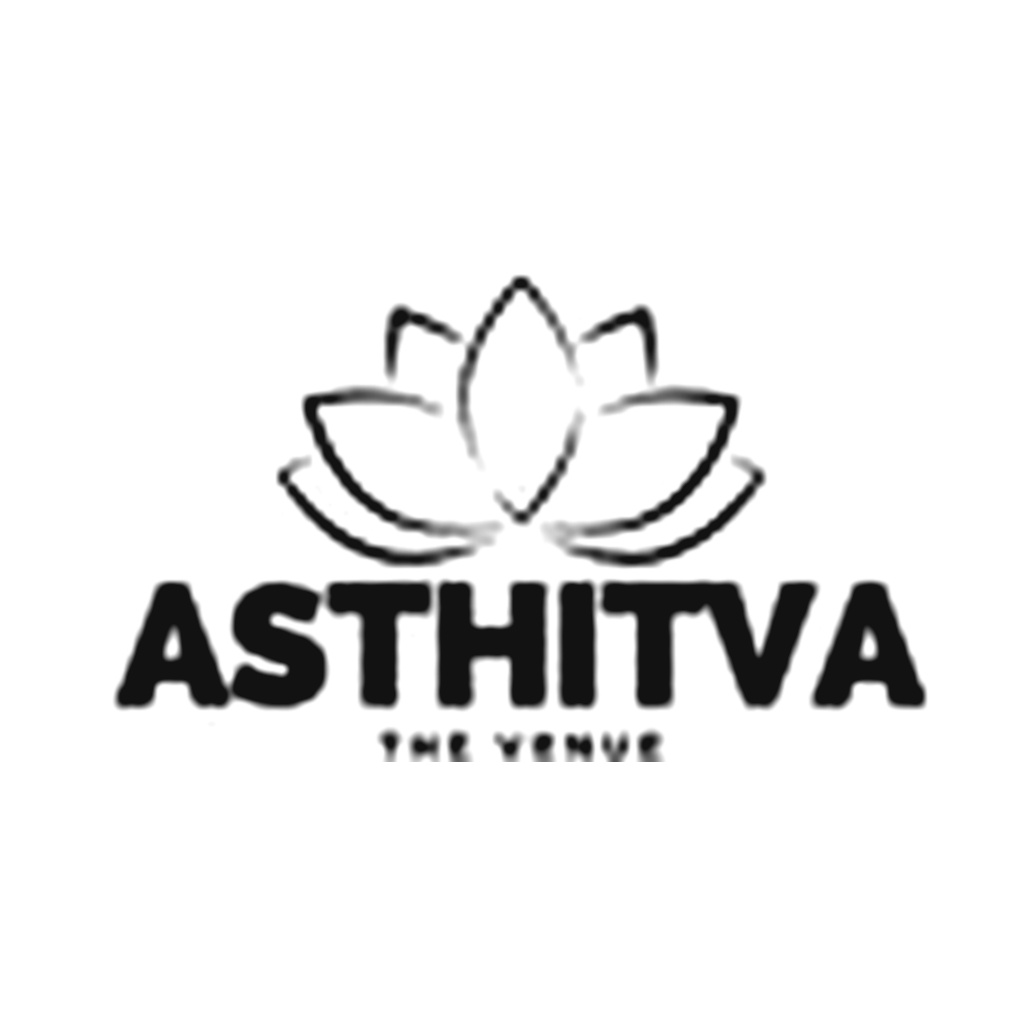
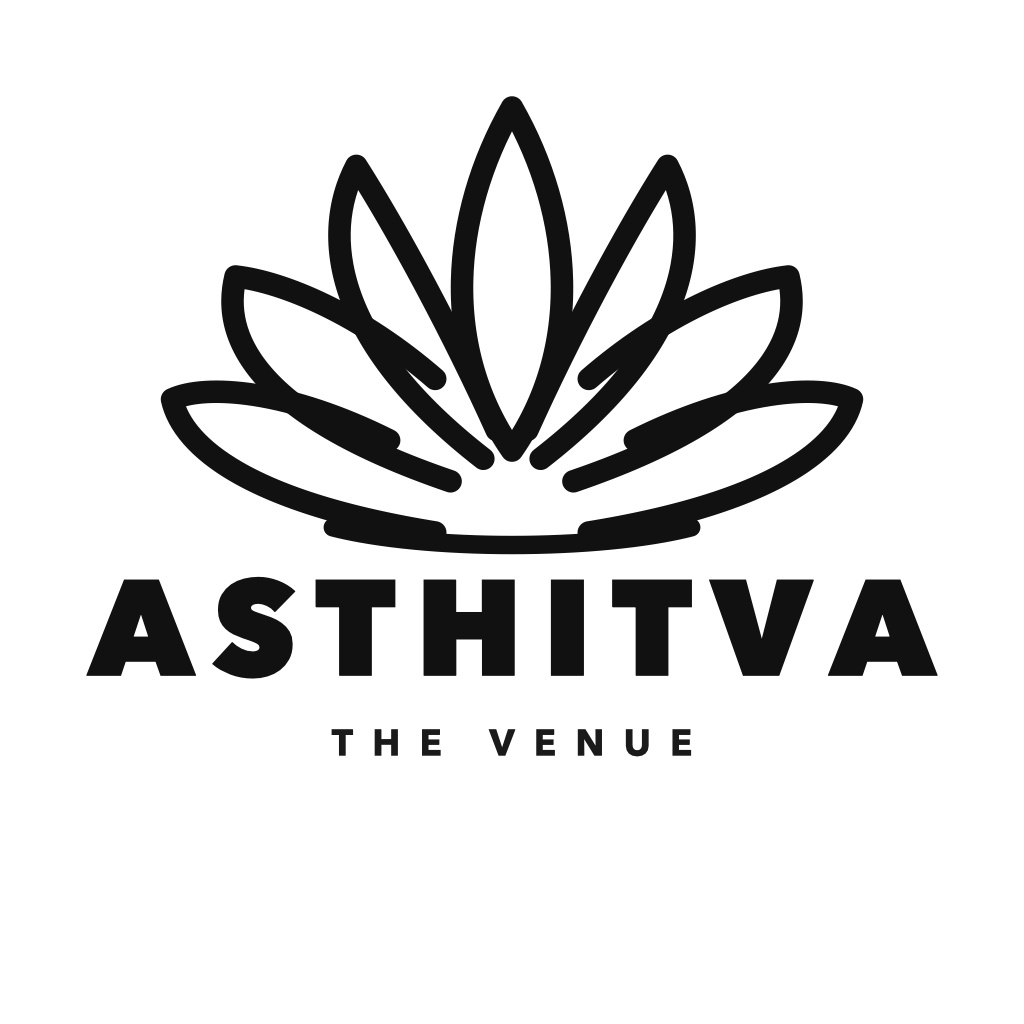
fix: top bar single line layout and ultra-crisp vector branding assets

Changed region(s): [[0.0938, 0.0938, 0.9062, 0.75]]

diff --git a/index.html b/index.html
@@ -15,30 +15,31 @@
     <script>
       !function(w,d,s,u){if(w.oaiq)return;var q=function(){q.q.push(arguments)};q.q=[];w.oaiq=q;var j=d.createElement(s);j.async=1;j.src=u;var f=d.getElementsByTagName(s)[0];f.parentNode.insertBefore(j,f)}(window,document,"script","https://bzrcdn.openai.com/sdk/oaiq.min.js");oaiq("init",{pixelId:"9M3Zh6aPyvjcmW6BhjpRtq",debug:true});
     </script>
-    <link rel="icon" type="image/png" sizes="32x32" href="/favicon-32x32.png?v=4" />
-    <link rel="icon" type="image/png" sizes="16x16" href="/favicon-16x16.png?v=4" />
-    <link rel="icon" type="image/png" href="/favicon.png?v=4" />
-    <link rel="shortcut icon" href="/favicon.ico?v=4" />
-    <link rel="apple-touch-icon" sizes="180x180" href="/apple-touch-icon.png?v=4" />
+    <link rel="icon" type="image/svg+xml" href="/favicon.svg?v=6" />
+    <link rel="icon" type="image/png" sizes="32x32" href="/favicon-32x32.png?v=6" />
+    <link rel="icon" type="image/png" sizes="16x16" href="/favicon-16x16.png?v=6" />
+    <link rel="icon" type="image/png" href="/favicon.png?v=6" />
+    <link rel="shortcut icon" href="/favicon.ico?v=6" />
+    <link rel="apple-touch-icon" sizes="180x180" href="/apple-touch-icon.png?v=6" />
     <link rel="preconnect" href="https://fonts.googleapis.com">
     <link rel="preconnect" href="https://fonts.gstatic.com" crossorigin>
     <link href="https://fonts.googleapis.com/css2?family=Outfit:wght@300..700&family=Philosopher:ital,wght@0,400;0,700;1,400;1,700&display=swap" rel="stylesheet">
     <meta name="viewport" content="width=device-width, initial-scale=1.0" />
-    <meta name="description" content="Asthitva — Premium Event Venues in Bengaluru. Discover our beautiful venues: Teak Meadows, Muddainapalya, Ullal, and RR Nagar, perfect for weddings, receptions, and celebrations.">
+    <meta name="description" content="Asthitva — Premium Event Venues in Bengaluru. Discover our beautiful venues: Teak Meadows, Muddainapalya, Ullal, RR Nagar, La Bendicion, and Fort View, perfect for weddings, receptions, and celebrations.">
     <meta property="og:title" content="Asthitva — Premium Event Venues | Bengaluru" />
-    <meta property="og:description" content="Discover Asthitva's premium event venues in Bengaluru: Teak Meadows, Muddainapalya, Ullal, and RR Nagar, perfect for weddings, receptions, and grand celebrations." />
+    <meta property="og:description" content="Discover Asthitva's premium event venues in Bengaluru: Teak Meadows, Muddainapalya, Ullal, RR Nagar, La Bendicion, and Fort View, perfect for grand celebrations." />
     <meta property="og:type" content="website" />
     <meta property="og:url" content="https://www.asthitva.in" />
-    <meta property="og:image" content="https://www.asthitva.in/share-preview.png?v=4" />
-    <meta property="og:image:secure_url" content="https://www.asthitva.in/share-preview.png?v=4" />
+    <meta property="og:image" content="https://www.asthitva.in/share-preview.png?v=6" />
+    <meta property="og:image:secure_url" content="https://www.asthitva.in/share-preview.png?v=6" />
     <meta property="og:image:type" content="image/png" />
     <meta property="og:image:width" content="1024" />
     <meta property="og:image:height" content="1024" />
     <meta property="og:image:alt" content="Asthitva — Premium Event Venues | Bengaluru" />
     <meta name="twitter:card" content="summary_large_image" />
     <meta name="twitter:title" content="Asthitva — Premium Event Venues | Bengaluru" />
-    <meta name="twitter:description" content="Discover Asthitva's premium event venues in Bengaluru: Teak Meadows, Muddainapalya, Ullal, and RR Nagar." />
-    <meta name="twitter:image" content="https://www.asthitva.in/share-preview.png?v=4" />
+    <meta name="twitter:description" content="Discover Asthitva's premium event venues in Bengaluru: Teak Meadows, Muddainapalya, Ullal, RR Nagar, La Bendicion, and Fort View." />
+    <meta name="twitter:image" content="https://www.asthitva.in/share-preview.png?v=6" />
     <title>Asthitva — Premium Event Venues | Bengaluru</title>
   </head>
   <body>

diff --git a/src/components/Navbar.css b/src/components/Navbar.css
@@ -15,6 +15,18 @@
   text-transform: uppercase;
   z-index: 1001;
   transition: transform 0.4s cubic-bezier(0.4, 0, 0.2, 1);
+  padding: 0 1rem;
+  box-sizing: border-box;
+  white-space: nowrap;
+  overflow: hidden;
+}
+
+.top-bar span {
+  white-space: nowrap;
+  overflow: hidden;
+  text-overflow: ellipsis;
+  text-align: center;
+  max-width: 100%;
 }
 
 .top-bar.hidden {
@@ -171,6 +183,11 @@
 }
 
 @media (max-width: 576px) {
+  .top-bar {
+    font-size: 0.7rem;
+    letter-spacing: 0.8px;
+    padding: 0 0.5rem;
+  }
   .navbar-logo-bottom {
     font-size: 1.3rem;
   }
@@ -184,6 +201,11 @@
 }
 
 @media (max-width: 400px) {
+  .top-bar {
+    font-size: 0.63rem;
+    letter-spacing: 0.5px;
+    padding: 0 0.35rem;
+  }
   .navbar-logo-bottom {
     font-size: 1.1rem;
   }

diff --git a/src/pages/FortView.jsx b/src/pages/FortView.jsx
@@ -53,7 +53,7 @@ function FortView() {
     <div className="app">
       <Navbar 
         logoText="Fort View" 
-        topBarText="Coming Soon — 3 Venues Complex near Electronic City" 
+        topBarText="Coming Soon — Electronic City" 
         phone="+91 89047 68299" 
       />
       <Header 
